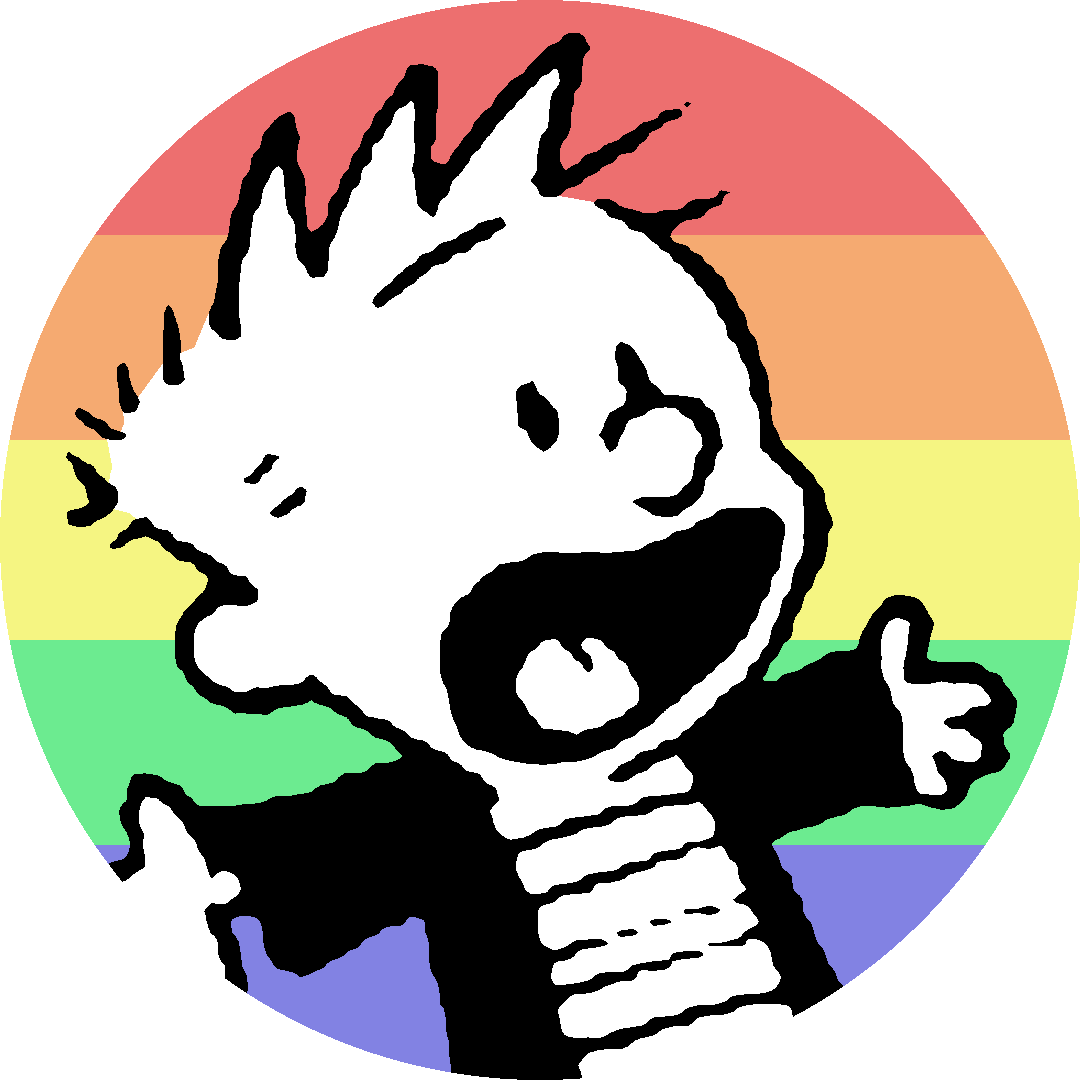
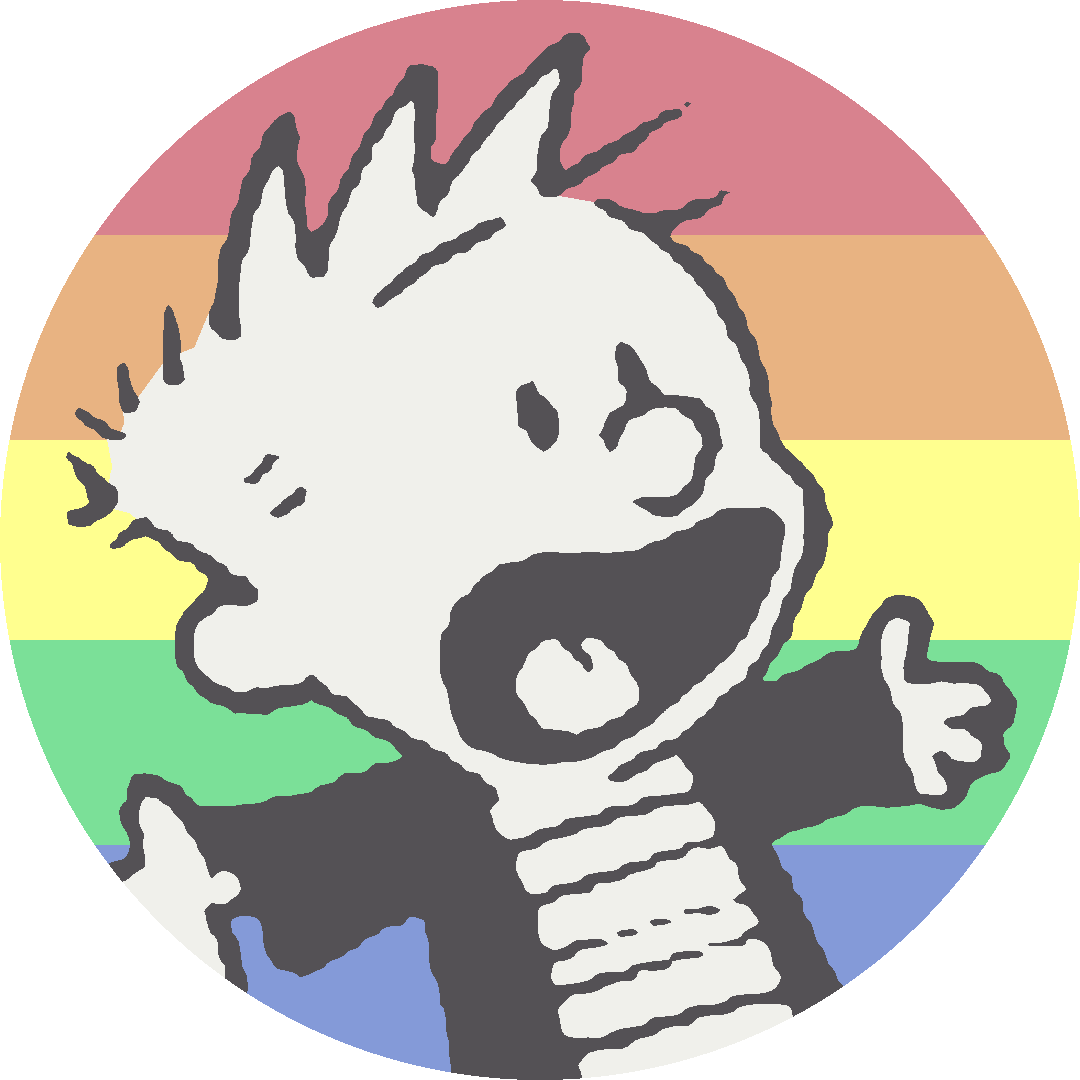
made a major style/theme change

diff --git a/other/index.html b/other/index.html
@@ -3,41 +3,50 @@
 <head>
     <meta charset="UTF-8">
     <title>Owen Compher's Other Things</title>
-    <style type="text/css">* { padding: 0; margin: 0; }</style>
+    <style type="text/css">* { padding: 0; margin: 0; }
+    .link {
+        text-decoration: none;
+    }
+    .link:hover {color: #ffff8f}
+    .link:active {color: #f0f0eb}</style>
+    <style id="link-color">.link {color: #545155}</style>
     <link rel="stylesheet" href="../style.css" media="screen and (min-device-width: 481px)">
     <link rel="stylesheet" href="../styleHandheld.css" media="screen and (max-device-width: 480px)">
     <link rel="shortcut icon" type="image/jpg" href="../resources/heart.png">
+    <script src="../link-color.js"></script>
+    <script src="../collapsible.js"></script>
 </head>
 <body>
     <div class="static">
         <nav>
-            <a class="o2c" href="https://owencompher.github.io">O2C</a>
-            <!-- a href="https://owencompher.github.io/blog">Blog</a -->
-            <a href="https://owencompher.github.io/projects">Projects</a>
-            <a href="https://owencompher.github.io/other">Other</a>
+            <a class="o2c link" href="https://owencompher.github.io">O2C</a>
+            <a class="link" href="https://gallery.owencompher.me">Gallery</a>
+            <a class="link" href="https://owencompher.github.io/projects">Projects</a>
+            <a class="link" href="https://owencompher.github.io/other">Other</a>
         </nav>
         <div class="side">
             <img class="propic" src="../resources/propic.png">
-            <img class="bg" src="../resources/background.png" style="width: 1px">
+            <img class="bg" src="../resources/background.png">
         </div>
     </div>
     <main>
         <b>Cool people:</b>
-            <p class="content">My amazing boyfriend <a href="https://ultrakindaluv.carrd.co/" target="_blank">Buck</a></p>
-        <br>
+            <p class="content">My amazing boyfriend <a class="link" href="https://ultrakindaluv.carrd.co/" target="_blank">Buck</a></p>
+            <a class="content link">jan Misali</a>
+        <br><br>
         <b>Cool songs:</b>
             <div class="content">
-                <button type="button" class="collapsible" style="font-weight: normal">+ Pretty Girl</button>
+                <button type="button" class="collapsible link" style="font-weight: normal">+ Pretty Girl</button>
                 <iframe src="https://open.spotify.com/embed/playlist/1bzdKHKlvZSb72KtaEQnY0?theme=0"
                         width="100%" height="230px" frameBorder="0" allowtransparency="true"
                         allow="encrypted-media" class="content" style="display: none"></iframe>
                 <br>
-                <button type="button" class="collapsible" style="font-weight: normal">+ Bussin</button>
+                <button type="button" class="collapsible link" style="font-weight: normal">+ Bussin</button>
                 <iframe src="https://open.spotify.com/embed/playlist/1IIc2qCWt333RdU6JI0vQT?theme=0"
                         width="100%" height="230px" frameBorder="0" allowtransparency="true"
                         allow="encrypted-media" class="content" style="display: none"></iframe>
                 <br>
-                <button type="button" class="collapsible" style="font-weight: normal">+ Mad All the Time</button>
+                <button type="button" class="collapsible link" style="font-weight: normal">+ Mad All the Time</button>
                 <iframe src="https://open.spotify.com/embed/playlist/2noqOrS4RLJjUIb9VnI2ed?theme=0"
                         width="100%" height="230px" frameBorder="0" allowtransparency="true"
                         allow="encrypted-media" class="content" style="display: none"></iframe>
@@ -55,10 +64,10 @@
         <div class="content">
             <input id="number" placeholder="number" size="8"><input id="base" placeholder="base" size="3"> to
             <input id="newBase" placeholder="base" size="3">
-            <button id="convert" style="width: auto; font-weight: normal">Go</button><br>
+            <button class="link" id="convert" style="width: auto; font-weight: normal">Go</button><br>
             <p id="output">= 0</p>
             <p style="font-size: 18px">This can convert numbers from one base (like 2 for binary, 10 for decimal,
-                or 6 for <a href="https://www.seximal.net/" target="_blank">seximal</a>) to any other. It supports
+                or 6 for <a class="link" href="https://www.seximal.net/" target="_blank">seximal</a>) to any other. It supports
             bases from 2 to 36, using 0-9 and A-Z for a total of 36 characters.</p>
             <script>
                 function changeBase(number, base, newBase) {
@@ -89,7 +98,6 @@
             </script>
         </div>
         <br><br><br><br><br><br>
-        <script src="../collapsible.js"></script>
     </main>
 </body>
 </html>

diff --git a/index.html b/index.html
@@ -3,45 +3,53 @@
 <head>
     <meta charset="UTF-8">
     <title>Owen Compher's Website</title>
-    <style type="text/css">* { padding: 0; margin: 0; }</style>
+    <style type="text/css">
+        * { padding: 0; margin: 0; }
+        .link {
+            text-decoration: none;
+        }
+        .link:hover {color: #ffff8f}
+        .link:active {color: #f0f0eb}
+    </style>
+    <style id="link-color">.link {color: #545155}</style>
     <link rel="stylesheet" href="style.css" media="screen and (min-device-width: 481px)">
     <link rel="stylesheet" href="styleHandheld.css" media="screen and (max-device-width: 480px)">
     <link rel="shortcut icon" type="image/jpg" href="resources/heart.png">
+    <script src="../link-color.js"></script>
 </head>
 <body>
     <div class="static">
         <nav>
-            <a class="o2c" href="https://owencompher.github.io">O2C</a>
-            <!-- a href="https://owencompher.github.io/blog">Blog</a -->
-            <a href="https://owencompher.github.io/projects">Projects</a>
-            <a href="https://owencompher.github.io/other">Other</a>
+            <a class="o2c link" href="https://owencompher.github.io">O2C</a>
+            <a class="link" href="https://gallery.owencompher.me">Gallery</a>
+            <a class="link" href="https://owencompher.github.io/projects">Projects</a>
+            <a class="link" href="https://owencompher.github.io/other">Other</a>
         </nav>
         <div class="side">
             <img class="propic" src="resources/propic.png">
-            <img class="bg" src="resources/background.png" style="width: 1px">
+            <img class="bg" src="resources/background.png" style="width: 4px">
         </div>
     </div>
     <main>
         <p>Hi, welcome to my website! This serves almost as an extended profile,
         where you can find  info about me, links to other profiles,
-        as well as anything else I think might be cool to have public.</p>
+        as well as anything else I think might be cool to have online.</p>
         <br>
         <b>About Me:</b>
-            <p class="content">I am 18, and go by the name Owen.<br>
-            When I am not in school, I like to spend my time volunteering,
-            talking to friends, or working on some kind of project.
+            <p class="content">I am 18, and my name is Owen.<br>
+            I am a student (soon to be) attending FSU, majoring in cybersecurity.
             I have interests in computer science, programming, pixel art,
-            and game design. I hope to go to college to study computer science.</p>
+            and game design.</p>
         <br>
         <b>Links:</b><br>
-            <a href="https://twitter.com/owencompher" target="_blank" class="content">Twitter</a><br>
-            <a href="https://twitch.tv/o2c_" target="_blank" class="content">Twitch</a><br>
-            <a href="https://www.youtube.com/channel/UChbv9EYP9pyn-6Xi-64suWw" target="_blank" class="content">Youtube</a><br>
-            <a href="https://github.com/owencompher" target="_blank" class="content">Github</a><br>
-            <a href="https://open.spotify.com/user/xf0rtgu6pnq4ffy21l3k0xxre?si=f29d375885014e5f&nd=1" target="_blank" class="content">Spotify</a><br>
+            <a class="link content" href="https://twitter.com/owencompher" target="_blank">Twitter</a><br>
+            <a class="link content" href="https://twitch.tv/o2c_" target="_blank">Twitch</a><br>
+            <a class="link content" href="https://www.youtube.com/channel/UChbv9EYP9pyn-6Xi-64suWw" target="_blank">Youtube</a><br>
+            <a class="link content" href="https://github.com/owencompher" target="_blank">Github</a><br>
+            <a class="link content" href="https://open.spotify.com/user/xf0rtgu6pnq4ffy21l3k0xxre?si=f29d375885014e5f&nd=1" target="_blank">Spotify</a><br>
         <br>
         <b>How to Contact:</b>
-            <p class="content">Email: <a href="mailto:owencompher@outlook.com" target="_blank">owencompher@outlook.com</a><br>
+            <p class="content">Email: <a class="link" href="mailto:owencompher@outlook.com" target="_blank">owencompher@outlook.com</a><br>
             Add on Discord: username O2C#9358</p>
     </main>
 </body>

diff --git a/projects/index.html b/projects/index.html
@@ -3,44 +3,54 @@
 <head>
     <meta charset="UTF-8">
     <title>Owen Compher's Projects</title>
-    <style type="text/css">* { padding: 0; margin: 0; }</style>
+    <style type="text/css">* { padding: 0; margin: 0; }
+    .link {
+        text-decoration: none;
+    }
+    .link:hover {color: #ffff8f}
+    .link:active {color: #f0f0eb}</style></style>
+    <style id="link-color">.link {color: #545155}</style>
     <link rel="stylesheet" href="../style.css" media="screen and (min-device-width: 481px)">
     <link rel="stylesheet" href="../styleHandheld.css" media="screen and (max-device-width: 480px)">
     <link rel="shortcut icon" type="image/jpg" href="../resources/heart.png">
+    <script src="../link-color.js"></script>
 </head>
 <body>
     <div class="static">
         <nav>
             <a class="o2c" href="https://owencompher.github.io">O2C</a>
-            <!-- a href="https://owencompher.github.io/blog">Blog</a -->
-            <a href="https://owencompher.github.io/projects">Projects</a>
-            <a href="https://owencompher.github.io/other">Other</a>
+            <a class="link" href="https://gallery.owencompher.me">Gallery</a>
+            <a class="link" href="https://owencompher.github.io/projects">Projects</a>
+            <a class="link" href="https://owencompher.github.io/other">Other</a>
         </nav>
         <div class="side">
             <img class="propic" src="../resources/propic.png">
-            <img class="bg" src="../resources/background.png" style="width: 1px">
+            <img class="bg" src="../resources/background.png">
         </div>
     </div>
     <main>
-        <b>oBot | <a href="https://github.com/owencompher/oBot" target="_blank">repository</a></b>
+        <b>oBot | <a class="link" href="https://github.com/owencompher/oBot" target="_blank">repository</a></b>
             <p class="content">oBot is a simple discord bot that I made for use by myself and friends. It has a few simple
             call-and-response commands, as well as a configuration system and a useful text-to-speech function.
             </p>
         <br>
-        <b>Website | <a href="https://github.com/owencompher/owencompher.github.io" target="_blank">repository</a></b>
+        <b>Website | <a class="link" href="https://github.com/owencompher/owencompher.github.io" target="_blank">repository</a></b>
             <p class="content">The website that you are reading this on is hosted by GitHub pages. I wrote it from scratch
-            and designed it myself. Visit the <a href="https://owencompher.github.io">homepage</a> for more info about
+            and designed it myself. Visit the <a class="link" href="https://owencompher.github.io">homepage</a> for more info about
             the website itself.
             </p>
         <br>
-        <b>Pixel Art | <a href="https://gallery.owencompher.me/" target="_blank">gallery</a></b>
+        <b>Pixel Art | <a class="link" href="https://gallery.owencompher.me/" target="_blank">gallery</a></b>
             <p class="content">Occasionally I make pixel art. My gallery is a Tumblr blog with a custom theme and domain.</p>
         <br>
-        <b>Drum Kit Sim | <a href="https://www.lexaloffle.com/bbs/?tid=44055" target="_blank">PIC0-8 forum</a></b>
+        <b>Drum Kit Sim | <a class="link" href="https://www.lexaloffle.com/bbs/?tid=44055" target="_blank">PIC0-8 forum</a></b>
             <p class="content">A small project I made in the PICO-8 game console. Controls are Z and X for the cymbals and
             the arrow keys for the drums.
             </p>
         <br>
+        <b>Desatur8 | <a class="link" href="https://lospec.com/palette-list/desatur8" target="_blank">Lospec page</a></b>
+            <p class="content">A small color palette with simple, somewhat desaturated colors that I designed to make pixel
+            art with. Every color on this website is from the palette.</p>
     </main>
 </body>
 </html>

diff --git a/style.css b/style.css
@@ -1,24 +1,15 @@
 @font-face {
-    font-family: 'JetBrains Mono', monospace;
-    src: url("https://owencompher.github.io/JetBrains Mono Regular Nerd Font Complete Mono.ttf") format('truetype');
-    font-weight: normal;
-    font-style: normal;
-}
-
-@font-face {
-    font-family: 'JetBrains Mono', monospace;
-    src: url("https://owencompher.github.io/JetBrains Mono Italic Nerd Font Complete Mono.ttf") format('truetype');
-    font-weight: normal;
-    font-style: italic;
+    font-family: "JetBrains Mono";
+    src: url("resources/JetBrains Mono Regular Nerd Font Complete Mono.ttf");
 }
 
 body {
-    background-image: url("resources/stars.jpg");
+    #background-image: url("resources/stars.jpg");
     background-size: cover;
     background-attachment: fixed;
-    #background-color: #111111;
-    font-family: "JetBrains Mono", monospace;
-    color: white;
+    background-color: #545155;
+    font-family: "JetBrains Mono";
+    color: #f0f0eb;
     max-width: 1000px;
     alignment: center;
     margin: auto;
@@ -27,8 +18,9 @@ body {
 .static {
     visibility: hidden;
     width: 100%;
+    max-width: 1000px;
     position: fixed;
-    top: 0;
+    top: 1vw;
 }
 
 .side {
@@ -40,7 +32,7 @@ body {
 
 .bg {
     height: calc(100vh - 8vw);
-    width: 1px
+    width: 4px
 }
 
 .propic {
@@ -55,29 +47,27 @@ body {
 }
 
 nav {
-    background-image: url("resources/stars.jpg");
-    background-size: cover;
-    background-attachment: fixed;
+    background-color: #545155;
     z-index: -1;
     visibility: visible;
     position: absolute;
     width: 100%;
-    height: 10vw;
+    max-width: calc(1000px - 10vw);
+    height: 5vw;
     padding-left: 10vw;
+    margin-top: 2.5vw;
     float: left;
+    border: 4px solid #f0f0eb;
 }
 
 nav a {
-    line-height: 6vw;
+    line-height: 5vw;
     float: left;
     text-decoration: none;
-    text-shadow: -1px 1px 0 #000,
-    1px 1px 0 #000,
-    1px -1px 0 #000;
-    margin: 2vw 20px 2vw 5px;
+    margin: 0 20px 0 5px;
     font-size: 25px;
     font-weight: bold;
-    color: white;
+    color: #f0f0eb;
 }
 
 .o2c {
@@ -97,13 +87,6 @@ iframe {
     padding-top: 5px;
 }
 
-a {
-    text-decoration: none;
-    color: #ffaaa6;
-}
-a:hover {color: #ffef5e;}
-a:active {color: white;}
-
 button {
     width: 100%;
     background: none;
@@ -112,9 +95,7 @@ button {
     text-align: left;
     font-family: "JetBrains Mono", monospace;
     font-size: 20px;
-    color: #ffaaa6;
 }
-button:hover {color: #ffef5e}
 
 .content {
     padding-left: 22px;
@@ -124,7 +105,6 @@ input {
     background: none;
     font-family: "JetBrains Mono", monospace;
     font-size: 20px;
-    color: #ffef5e;
     outline-style: none;
     outline-color: white;
     border: none;

diff --git a/link-color.js b/link-color.js
@@ -1,0 +1,9 @@
+const colors = [
+    '#78e098',
+    '#849ad8',
+    '#a776c1',
+    '#d8828e',
+    '#e8b382'
+]
+document.getElementById('link-color').innerHTML =
+    `.link {color: ${colors[Math.floor(Math.random() * 5)]}}`
